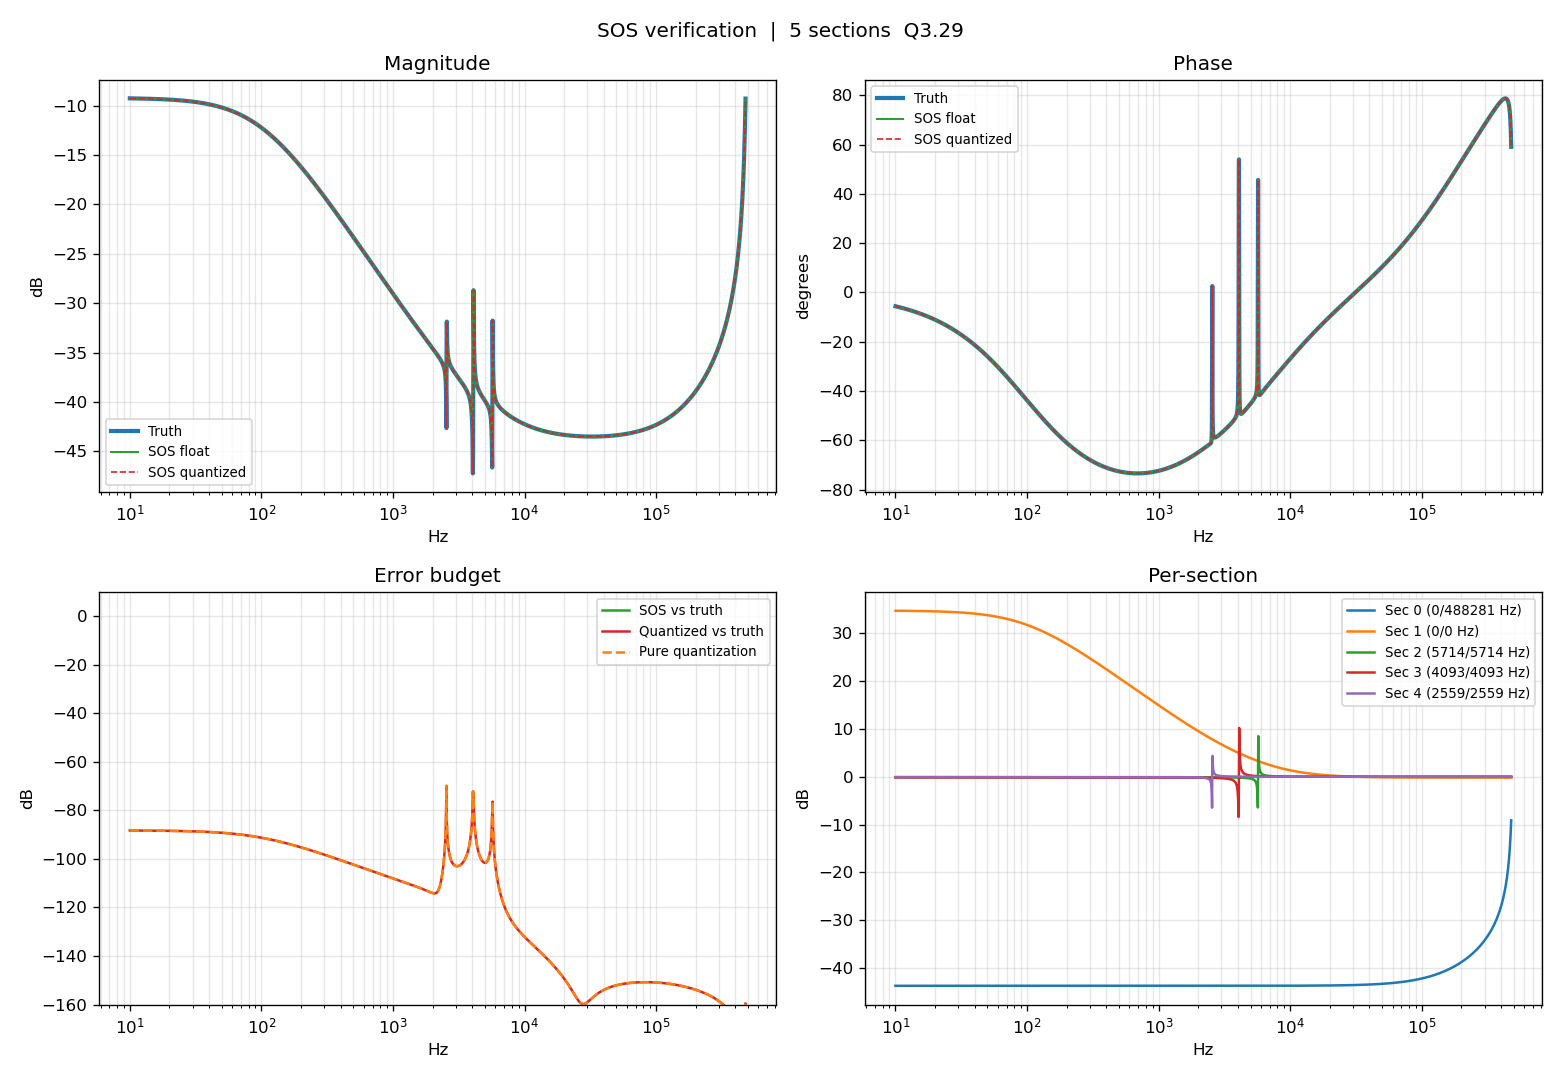
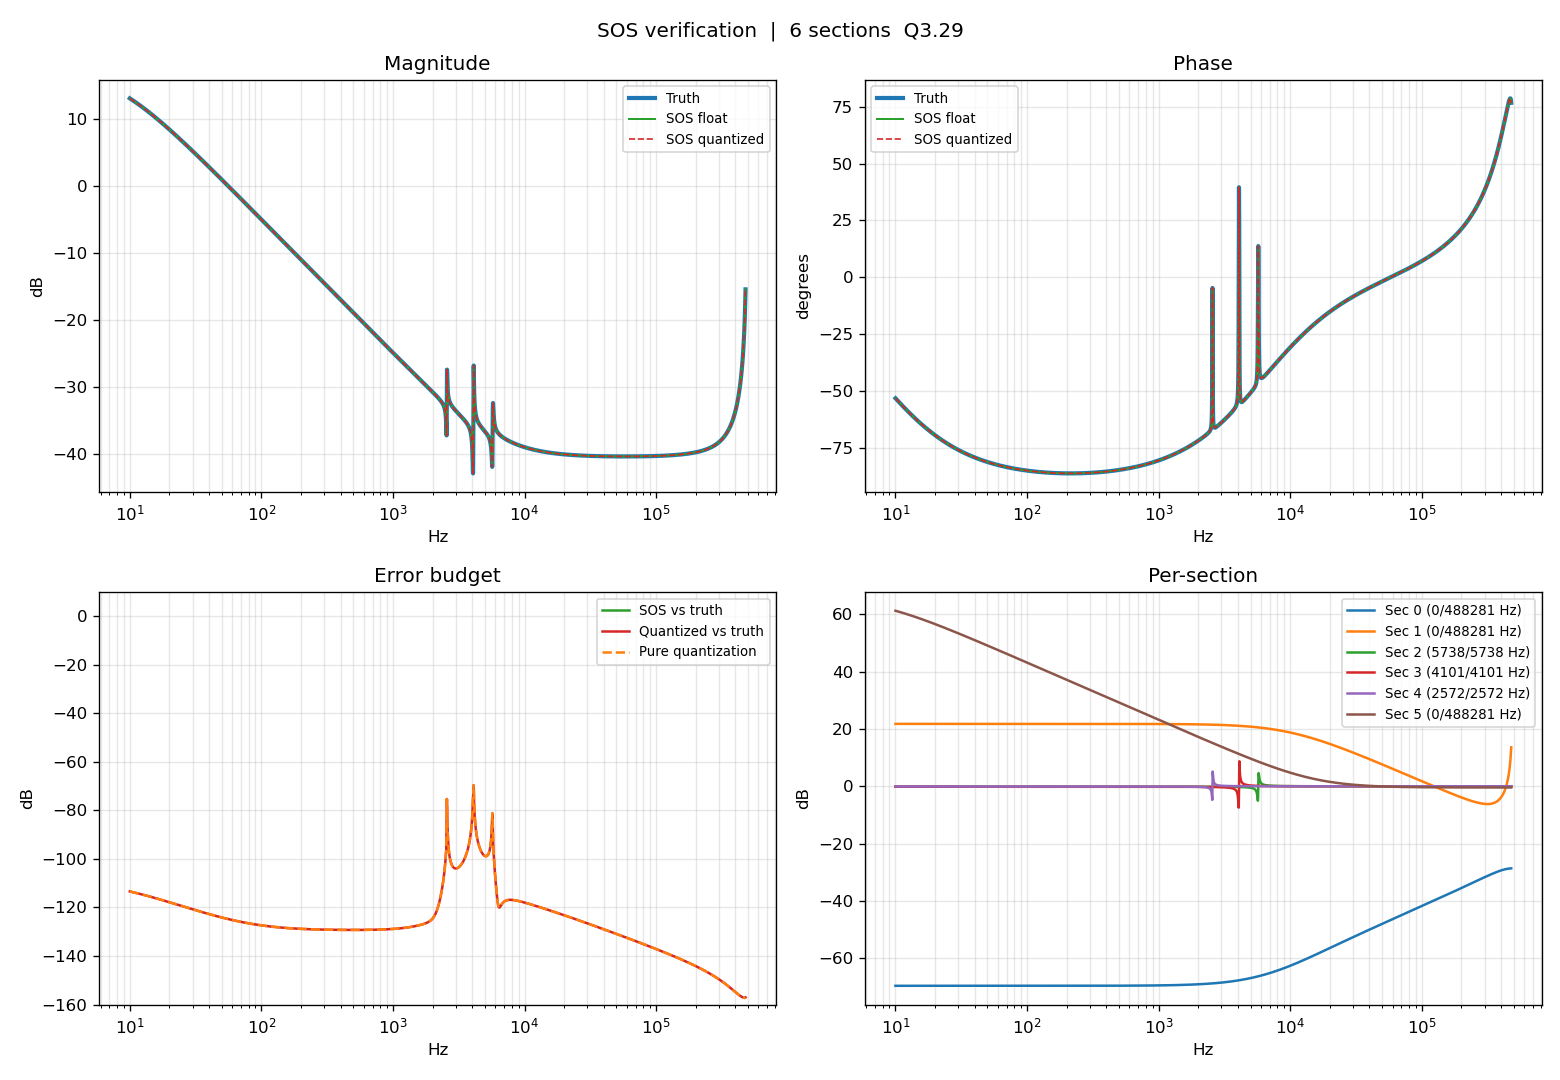
new filter

diff --git a/scripts/ctrl.py b/scripts/ctrl.py
@@ -29,6 +29,10 @@ def parse_args():
     p.add_argument("--plant-dc",     type=float, default=1.0,  help="plant DC gain")
     p.add_argument("--tau-delay",    type=float, default=0.5e-6, help="first-order delay, s")
     p.add_argument("--plant-npz",    type=str,   default=None, help="override plant from bode_fit ZPK npz")
+    p.add_argument("--plant-proper-pole", type=float, default=None,
+                   help="Hz for auto-added real pole(s) if plant NPZ is non-proper; default 20*xover")
+    p.add_argument("--no-auto-properize-plant", action="store_true",
+                   help="raise an error instead of adding high-frequency pole(s) to non-proper plant fits")
     p.add_argument("--w1-dc",        type=float, default=30.0)
     p.add_argument("--w1-corner",    type=float, default=15e3)
     p.add_argument("--w2-dc",        type=float, default=1e-3)
@@ -68,6 +72,22 @@ def build_plant(args, w_norm):
         zc = d["z"] / w_norm
         pc = d["p"] / w_norm
         kc = float(d["k"]) * w_norm**(len(d["z"]) - len(d["p"]))
+        excess_zeros = len(zc) - len(pc)
+        if excess_zeros > 0:
+            if args.no_auto_properize_plant:
+                raise ValueError(
+                    f"Plant NPZ is non-proper: {len(zc)} zeros, {len(pc)} poles. "
+                    "Add high-frequency rolloff pole(s), refit with relative degree >= 0, "
+                    "or omit --no-auto-properize-plant."
+                )
+            pole_hz = args.plant_proper_pole or (20.0 * args.xover)
+            rolloff_poles = -2*np.pi*pole_hz / w_norm * np.ones(excess_zeros)
+            pc = np.concatenate([pc, rolloff_poles])
+            kc *= float(np.prod(-rolloff_poles))
+            print(
+                f"Plant NPZ is non-proper ({len(zc)}z/{len(d['p'])}p); "
+                f"added {excess_zeros} real rolloff pole(s) at {pole_hz:g} Hz."
+            )
         num = np.poly(zc) * kc
         den = np.poly(pc)
         G = ct.tf(num, den)

diff --git a/src/hinf_coeffs.h b/src/hinf_coeffs.h
@@ -1,23 +1,24 @@
 // hinf_coeffs.h — auto-generated by coeffs_analyze.py
-// Q3.29  5 sections  fs=0.9766 MHz  quant err -69.9 dB
-// HLS arithmetic check: AP_TRN_ZERO, step +50: fx +0, float +17.30, maxerr 17.3; step -50: fx +0, float -17.30, maxerr 17.3
+// Q3.29  6 sections  fs=0.9766 MHz  quant err -69.6 dB
+// HLS arithmetic check: AP_TRN_ZERO, step +50: fx +0, float +232.96, maxerr 233.0; step -50: fx +0, float -232.96, maxerr 233.0
 #ifndef HINF_COEFFS_H
 #define HINF_COEFFS_H
 #include <stdint.h>
 
-#define HINF_N_SECTIONS     5
+#define HINF_N_SECTIONS     6
 #define HINF_COEF_INT_BITS  3
 #define HINF_COEF_FRAC_BITS 29
 #define HINF_COEF_SCALE     536870912L
 
 typedef struct { int32_t b0,b1,b2,a1,a2; } hinf_sos_t;
 
-static const hinf_sos_t HINF_SOS[5] = {
-    {   10141500,   -3249108,          0,  517782085,          0},
-    {  536870912,-1038862934,  502480541,-1059503825,  522641849},
-    {  536870912,-1072909528,  536757051,-1072927253,  536781896},
-    {  536870912,-1073283251,  536778778,-1073293115,  536794454},
-    {  536870912,-1073560906,  536834586,-1073552977,  536827565}
+static const hinf_sos_t HINF_SOS[6] = {
+    {    8076127,  -15331352,    7275015, -383818890,  -93345742},
+    {  536870912,  250476578,   29214902,   27433393, -497750160},
+    {  536870912,-1072792791,  536643521,-1072772916,  536633613},
+    {  536870912,-1073262870,  536759411,-1073269718,  536772492},
+    {  536870912,-1073532656,  536807548,-1073534301,  536810433},
+    {  536870912,   49816302, -487054610,      22143, -536841243}
 };
 
 #endif
